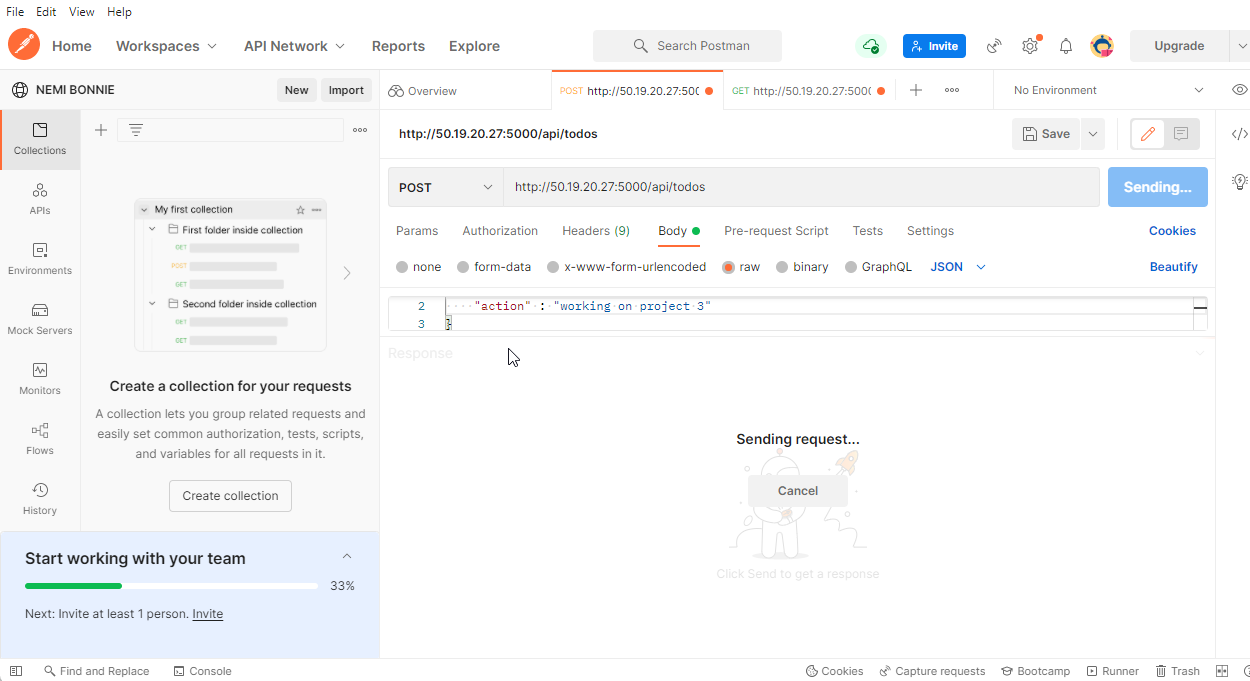
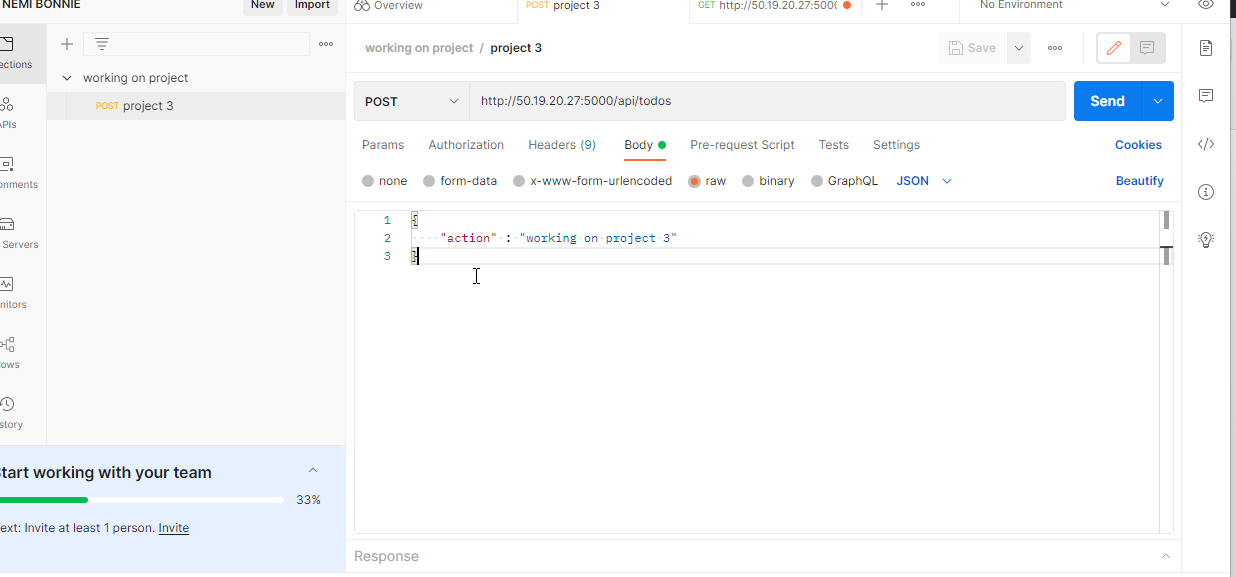
make changes

diff --git a/project3.md b/project3.md
@@ -386,6 +386,7 @@ Start your server using the command:
 
   make sure your set header key Content-Type as application/json
 
+  Click on body and select raw
 
 
   CREATE - HTTP GET request, HTTP POST request, then send request.
@@ -396,6 +397,10 @@ Start your server using the command:
    
   [Postman](https://www.postman.com/interstellar-firefly-586561/workspace/nemi-bonnie/request/create?requestId=37e7531e-34ae-4a65-aae7-ae05a9880dc4)
 
+
+  
+
+  ![Postman](./images/Postman-get-post.png)
 
 
 
@@ -409,7 +414,7 @@ Start your server using the command:
 
 
 
-![Client created](images/npx-created-client-created.png)
+
 
 
 I had a problem installing npx create-react-app client because node.js version is not updated. This is how I updated it.
